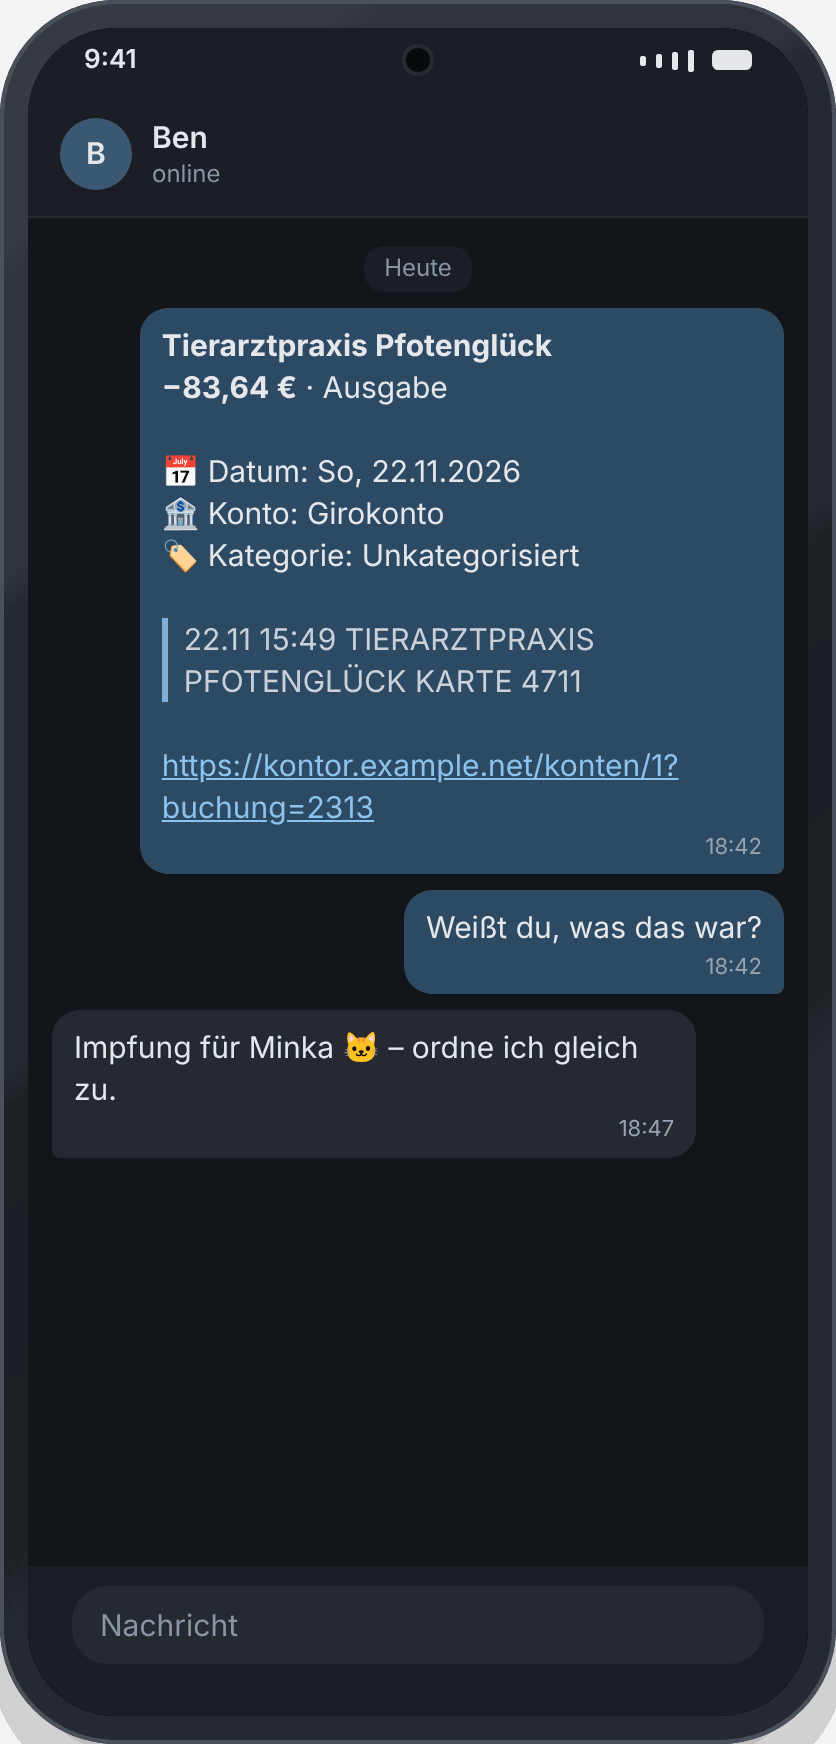
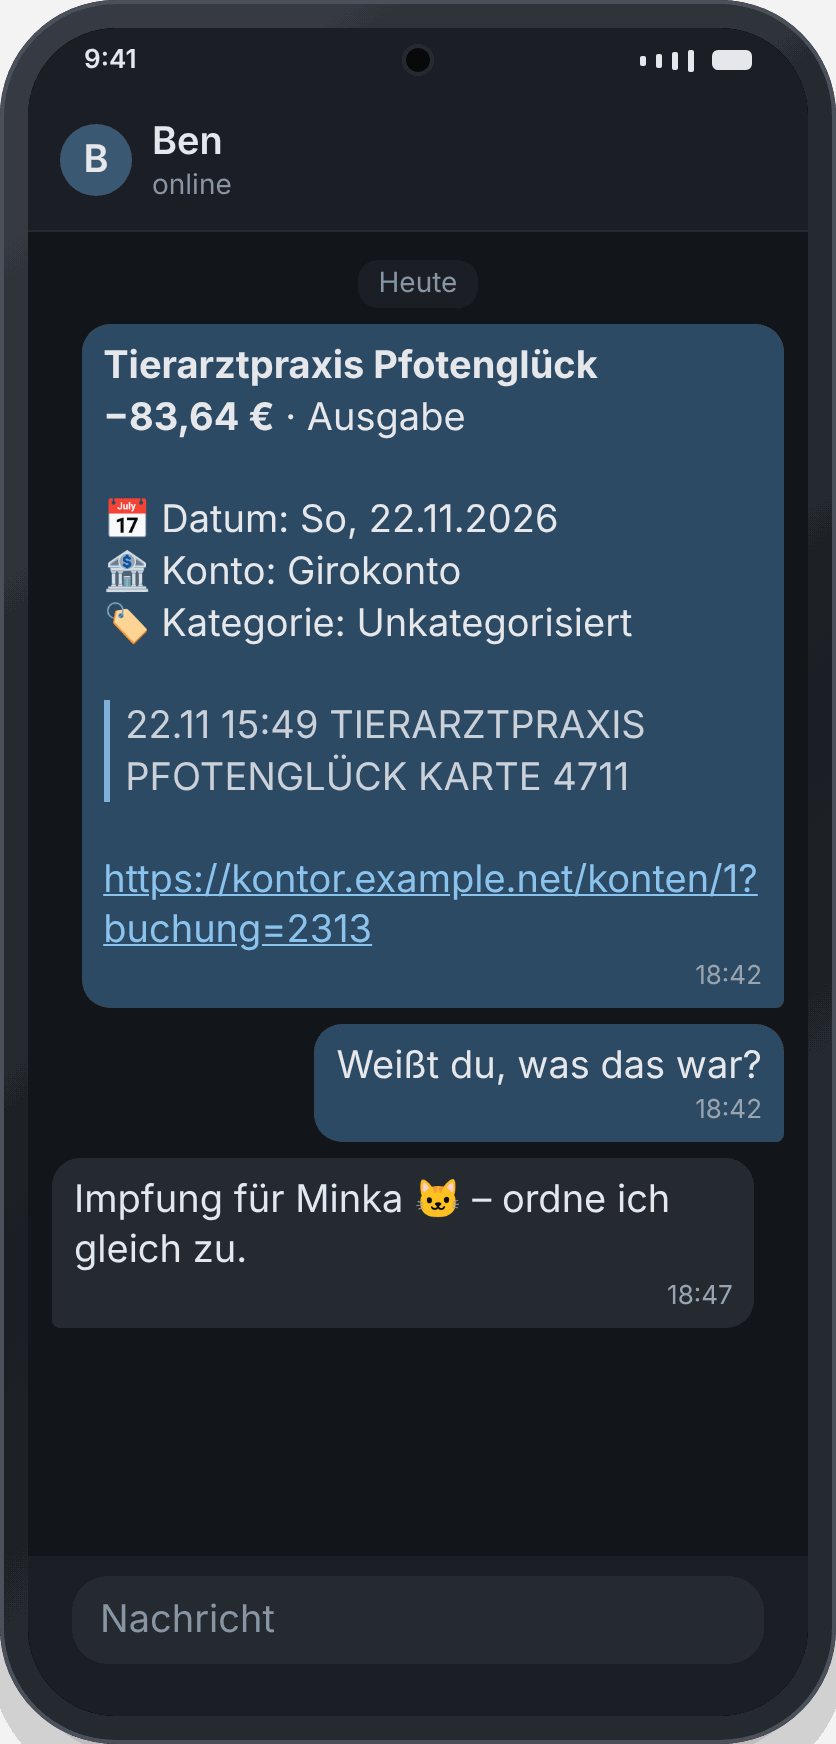
Screenshots: größere Schrift im Chat-Bild
Claude-Session: https://claude.ai/code/session_01F56sG4V8MWVAQqfUAGv678

diff --git a/docs/screenshots/erzeugen.py b/docs/screenshots/erzeugen.py
@@ -305,17 +305,17 @@ def geteilter_text(p, basis: str) -> str:
 
 CHAT = """<!DOCTYPE html><html lang="de"><head><meta charset="utf-8">
 <meta name="viewport" content="width=device-width, initial-scale=1"><style>
-html, body {{ margin: 0; height: 100%; background: #12151a; color: #e6e8eb; font: 15px/1.4 system-ui, sans-serif; }}
+html, body {{ margin: 0; height: 100%; background: #12151a; color: #e6e8eb; font: 19px/1.35 system-ui, sans-serif; }}
 .kopf {{ display: flex; align-items: center; gap: 10px; padding: 12px 16px; background: #1b1f25;
   border-bottom: 1px solid #262b33; }}
 .bild {{ width: 36px; height: 36px; border-radius: 50%; background: #3c5a73; display: grid; place-items: center;
   font-weight: 600; }}
-.name {{ font-weight: 600; }} .status {{ font-size: 12px; color: #8b94a0; }}
+.name {{ font-weight: 600; }} .status {{ font-size: 14px; color: #8b94a0; }}
 .verlauf {{ padding: 14px 12px; display: flex; flex-direction: column; gap: 8px; }}
-.tag {{ align-self: center; font-size: 12px; color: #8b94a0; background: #1b1f25; padding: 3px 10px;
+.tag {{ align-self: center; font-size: 14px; color: #8b94a0; background: #1b1f25; padding: 3px 10px;
   border-radius: 10px; }}
-.blase {{ max-width: 82%; padding: 8px 11px 6px; border-radius: 14px; white-space: pre-wrap; word-break: break-word; }}
-.blase .zeit {{ display: block; text-align: right; font-size: 11px; color: #9aa6b2; margin-top: 2px; }}
+.blase {{ max-width: 90%; padding: 8px 11px 6px; border-radius: 14px; white-space: pre-wrap; word-break: break-word; }}
+.blase .zeit {{ display: block; text-align: right; font-size: 13px; color: #9aa6b2; margin-top: 2px; }}
 .ich {{ align-self: flex-end; background: #2c4a63; border-bottom-right-radius: 4px; }}
 .du {{ align-self: flex-start; background: #262b33; border-bottom-left-radius: 4px; }}
 .zitat {{ border-left: 3px solid #7fb0d8; padding-left: 8px; color: #c9d1da; }}
